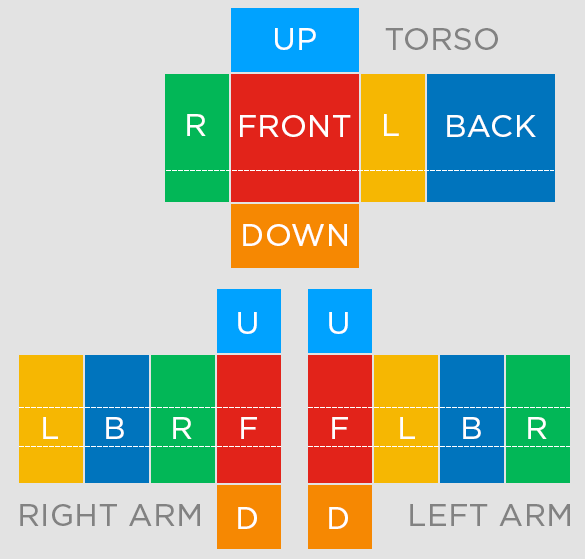
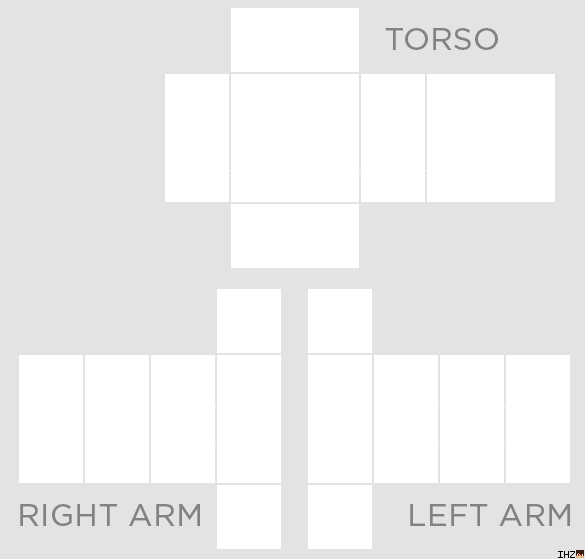
Work 👍

diff --git a/index.js b/index.js
@@ -1,20 +1,162 @@
 const { createCanvas, loadImage } = require("canvas")
 const fs = require("fs")
-
-async function makeImage() {
+async function isSlimSkin(img) {
+    const c = createCanvas(img.width, img.height), ctx = c.getContext('2d');
+    ctx.drawImage(img, 0, 0);
+    return !ctx.getImageData(50, 16, 1, 1).data[3];
+}
+async function shirt() {
     const template = await loadImage('template.png');
     const skin = await loadImage('skin.png');
-
+    const s = (await isSlimSkin(skin)) ? 1 : 0;
 
     const canvas = createCanvas(template.width, template.height);
     const ctx = canvas.getContext("2d")
     ctx.drawImage(template, 0, 0);
+    ctx.imageSmoothingEnabled = false;
     // TORSO
     // Top
-    ctx.drawImage(skin, 20, 16, 8, 4, 231, 8, 128, 64)
-    ctx.drawImage(skin, 20, 32, 8, 4, 231, 8, 128, 64)
+    ctx.drawImage(skin, 20, 16, 8, 4, 231, 8, 128, 64);
+    ctx.drawImage(skin, 20, 32, 8, 4, 231, 8, 128, 64);
+    // Front
+    ctx.drawImage(skin, 20, 20, 8, 12, 231, 74, 128, 128);
+    ctx.drawImage(skin, 20, 36, 8, 12, 231, 74, 128, 128);
+    // R
+    ctx.drawImage(skin, 16, 20, 4, 12, 165, 74, 64, 128);
+    ctx.drawImage(skin, 16, 36, 4, 12, 165, 74, 64, 128);
+    // L
+    ctx.drawImage(skin, 28, 20, 4, 12, 361, 74, 64, 128);
+    ctx.drawImage(skin, 28, 36, 4, 12, 361, 74, 64, 128);
+    // Back
+    ctx.drawImage(skin, 32, 20, 8, 12, 427, 74, 128, 128);
+    ctx.drawImage(skin, 32, 36, 8, 12, 427, 74, 128, 128);
+    // Down (need to be inverted)
+    
+    // RIGHTARM
+    // F
+    ctx.drawImage(skin, 44, 20, 4 - s, 12, 217, 355, 64, 128);
+    ctx.drawImage(skin, 44, 36, 4 - s, 12, 217, 355, 64, 128);
+    // R
+    ctx.drawImage(skin, 40, 20, 4, 12, 151, 355, 64, 128);
+    ctx.drawImage(skin, 40, 36, 4, 12, 151, 355, 64, 128);
+    // B
+    ctx.drawImage(skin, 52 - s, 20, 4 - s, 12, 85, 355, 64, 128);
+    ctx.drawImage(skin, 52 - s, 36, 4 - s, 12, 85, 355, 64, 128);
+    // L
+    ctx.drawImage(skin, 48 - s, 20, 4, 12, 19, 355, 64, 128);
+    ctx.drawImage(skin, 48 - s, 36, 4, 12, 19, 355, 64, 128);
+    // U
+    ctx.drawImage(skin, 44, 16, 4 - s, 4, 217, 289, 64, 64);
+    ctx.drawImage(skin, 44, 32, 4 - s, 4, 217, 289, 64, 64);
+    // LEFTARM
+    // F
+    ctx.drawImage(skin, 36, 52, 4 - s , 12, 308, 355, 64, 128);
+    ctx.drawImage(skin, 52, 52, 4 - s, 12, 308, 355, 64, 128);
+    // L
+    ctx.drawImage(skin, 40 - s, 52, 4, 12, 374, 355, 64, 128);
+    ctx.drawImage(skin, 56 - s, 52, 4, 12, 374, 355, 64, 128);
+    // B
+    ctx.drawImage(skin, 44 - s, 52, 4 - s, 12, 440, 355, 64, 128);
+    ctx.drawImage(skin, 60 - s, 52, 4 - s, 12, 440, 355, 64, 128);
+    // R
+    ctx.drawImage(skin, 32, 52, 4, 12, 506, 355, 64, 128);
+    ctx.drawImage(skin, 48, 52, 4, 12, 506, 355, 64, 128);
+    // U
+    ctx.drawImage(skin, 36, 48, 4 - s, 4, 308, 289, 64, 64);
+    ctx.drawImage(skin, 52, 48, 4 - s, 4, 308, 289, 64, 64);
+    // Avatar
+    ctx.drawImage(skin, 8, 8, 8, 8, 40, 50, 64 , 64);
+    ctx.drawImage(skin, 40, 8, 8, 8, 40, 50, 64 , 64);
+    // INVERTED
+    ctx.scale(1, -1);
+    // Torso Down
+    ctx.drawImage(skin, 28, 16, 8, 4, 231, -268, 128, 64);
+    ctx.drawImage(skin, 28, 32, 8, 4, 231, -268, 128, 64);
+    // Right Arm Down
+    ctx.drawImage(skin, 48 - s, 16, 4 - s, 4, 217, -549, 64, 64);
+    ctx.drawImage(skin, 48 - s, 32, 4 - s, 4, 217, -549, 64, 64);
+    // Left Arm Down
+    ctx.drawImage(skin, 40 - s, 48, 4 - s, 4, 308, -549, 64, 64);
+    ctx.drawImage(skin, 56 - s, 48, 4 - s, 4, 308, -549, 64, 64);
 
     const buffer = canvas.toBuffer('image/png')
-    fs.writeFileSync('finished.png', buffer);
+    fs.writeFileSync('shirt.png', buffer);
 }
-makeImage()
+async function pants() {
+    const template = await loadImage('templateleg.png');
+    const skin = await loadImage('skin.png');
+
+    const canvas = createCanvas(template.width, template.height);
+    const ctx = canvas.getContext("2d")
+    ctx.drawImage(template, 0, 0);
+    ctx.imageSmoothingEnabled = false;
+    // TORSO
+    // Top
+    ctx.drawImage(skin, 20, 16, 8, 4, 231, 8, 128, 64);
+    ctx.drawImage(skin, 20, 32, 8, 4, 231, 8, 128, 64);
+    // Front
+    ctx.drawImage(skin, 20, 20, 8, 12, 231, 74, 128, 128);
+    ctx.drawImage(skin, 20, 36, 8, 12, 231, 74, 128, 128);
+    // R
+    ctx.drawImage(skin, 16, 20, 4, 12, 165, 74, 64, 128);
+    ctx.drawImage(skin, 16, 36, 4, 12, 165, 74, 64, 128);
+    // L
+    ctx.drawImage(skin, 28, 20, 4, 12, 361, 74, 64, 128);
+    ctx.drawImage(skin, 28, 36, 4, 12, 361, 74, 64, 128);
+    // Back
+    ctx.drawImage(skin, 32, 20, 8, 12, 427, 74, 128, 128);
+    ctx.drawImage(skin, 32, 36, 8, 12, 427, 74, 128, 128);
+    // Down (need to be inverted)
+    
+    // RIGHTLEG
+    // F
+    ctx.drawImage(skin, 4, 20, 4, 12, 217, 355, 64, 128);
+    ctx.drawImage(skin, 4, 36, 4, 12, 217, 355, 64, 128);
+    // R
+    ctx.drawImage(skin, 0, 20, 4, 12, 151, 355, 64, 128);
+    ctx.drawImage(skin, 0, 36, 4, 12, 151, 355, 64, 128);
+    // B
+    ctx.drawImage(skin, 12, 20, 4, 12, 85, 355, 64, 128);
+    ctx.drawImage(skin, 12, 36, 4, 12, 85, 355, 64, 128);
+    // L
+    ctx.drawImage(skin, 8, 20, 4, 12, 19, 355, 64, 128);
+    ctx.drawImage(skin, 8, 36, 4, 12, 19, 355, 64, 128);
+    // U
+    ctx.drawImage(skin, 4, 16, 4, 4, 217, 289, 64, 64);
+    ctx.drawImage(skin, 4, 32, 4, 4, 217, 289, 64, 64);
+    // LEFTLEG
+    // F
+    ctx.drawImage(skin, 20, 52, 4, 12, 308, 355, 64, 128);
+    ctx.drawImage(skin, 5, 52, 4, 12, 308, 355, 64, 128);
+    // L
+    ctx.drawImage(skin, 24, 52, 4, 12, 374, 355, 64, 128);
+    ctx.drawImage(skin, 8, 52, 4, 12, 374, 355, 64, 128);
+    // B
+    ctx.drawImage(skin, 28, 52, 4, 12, 440, 355, 64, 128);
+    ctx.drawImage(skin, 12, 52, 4, 12, 440, 355, 64, 128);
+    // R
+    ctx.drawImage(skin, 16, 52, 4, 12, 506, 355, 64, 128);
+    ctx.drawImage(skin, 0, 52, 4, 12, 506, 355, 64, 128);
+    // U
+    ctx.drawImage(skin, 20, 48, 4, 4, 308, 289, 64, 64);
+    ctx.drawImage(skin, 4, 48, 4, 4, 308, 289, 64, 64);
+    // Avatar
+    ctx.drawImage(skin, 8, 8, 8, 8, 40, 50, 64 , 64);
+    ctx.drawImage(skin, 40, 8, 8, 8, 40, 50, 64 , 64);
+    // INVERTED
+    ctx.scale(1, -1);
+    // Torso Down
+    ctx.drawImage(skin, 28, 16, 8, 4, 231, -268, 128, 64);
+    ctx.drawImage(skin, 28, 32, 8, 4, 231, -268, 128, 64);
+    // Right Leg Down
+    ctx.drawImage(skin, 8, 16, 4, 4, 217, -549, 64, 64);
+    ctx.drawImage(skin, 8, 32, 4, 4, 217, -549, 64, 64);
+    // Left Leg Down
+    ctx.drawImage(skin, 24, 48, 4, 4, 308, -549, 64, 64);
+    ctx.drawImage(skin, 8, 48, 4, 4, 308, -549, 64, 64);
+
+    const buffer = canvas.toBuffer('image/png')
+    fs.writeFileSync('pants.png', buffer);
+}
+shirt()
+pants()

diff --git a/README.md b/README.md
@@ -1,0 +1,41 @@
+# Minecraft Skin to Roblox Converter
+
+This is a **Node.js project** that automatically converts a **Minecraft skin (64×64)** into a Roblox-compatible outfit. It also detects whether the skin is **slim (Alex) or normal (Steve)**.
+
+## Prerequisites
+
+1. **Install Node.js** (if not already installed):  
+   - [Download from Node.js official website](https://nodejs.org/) and install it.  
+   - Or use an **online Node.js runner** like [Replit](https://replit.com/).
+
+2. **Prepare your skin file**:  
+   - Make sure you have a **64×64 Minecraft skin** named **`skin.png`**.
+   - **Legacy (64×32) skins are NOT supported**.
+
+## Installation
+
+```sh
+# Clone or download this repository
+# Navigate to the project directory
+# Install dependencies
+npm install
+```
+
+## Usage
+
+```sh
+# Run the script to generate the Roblox-compatible image
+npm start
+```
+
+### What Happens?
+- The script will **automatically detect** if the skin is **Alex (slim) or Steve (normal)**.
+- It will **convert the skin** into the correct format for Roblox.
+- The output image will be saved in the project directory.
+
+## Notes
+- If you get an error, ensure that **`skin.png` exists** and is **64×64 pixels**.
+- If you want to run it online, upload the skin file before executing the script.
+
+## License
+This project is open-source and free to use!
